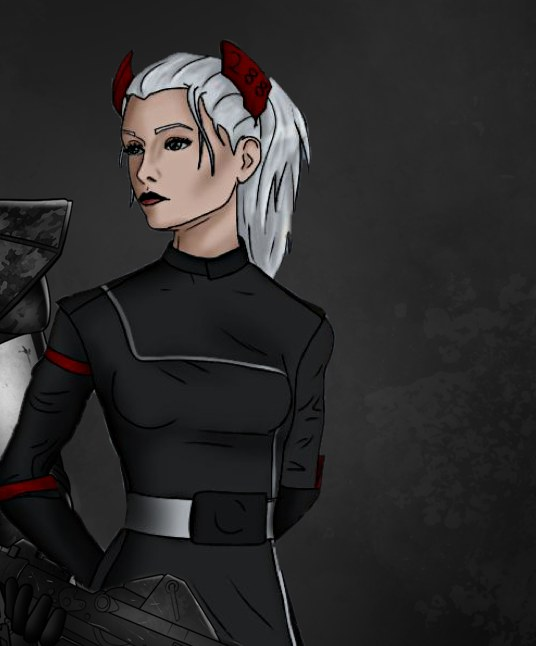
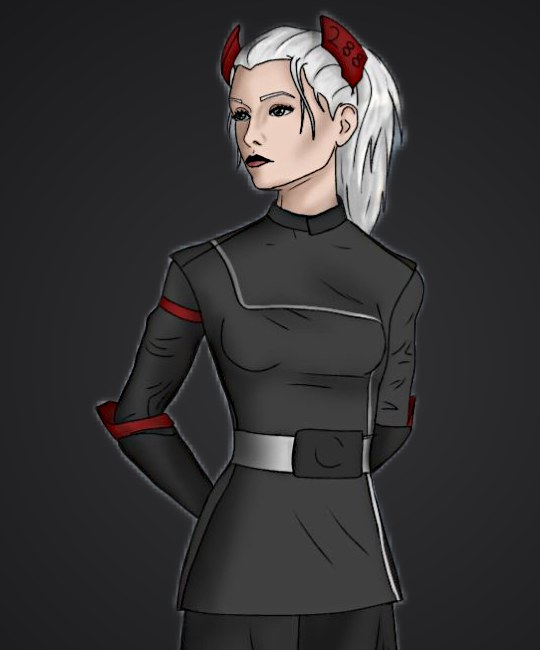
Hall of Honor: new Lynx portrait
Claude-Session: https://claude.ai/code/session_01QnpzuT2cmqUgbyHeDRRMuf

diff --git a/index.html b/index.html
@@ -935,7 +935,7 @@ html.intro-on,html.intro-on body{overflow:hidden}
       </div>
       <div class="command honor" id="c-honor">
         <article class="officer reveal">
-          <div class="plate"><img class="portrait" src="images/honor-lynx.jpg" alt="Lynx" style="width:100%;height:100%;object-fit:cover;object-position:50% 22%;opacity:1"></div>
+          <div class="plate"><img class="portrait" src="images/honor-lynx.jpg?v=2" alt="Lynx" style="width:100%;height:100%;object-fit:cover;object-position:50% 22%;opacity:1"></div>
           <div class="info"><span class="label">Fleet Admiral</span><h3>Lynx</h3><span class="honor-medal">Member since 2017 · Fleet Admiral of the 228th</span><details><summary>Their story</summary><p>Fleet Admiral Lynx is one of the most storied members in the 228th&#x27;s history. She came to the Corps from the 91st Recon Corps, another clone unit from the text RP days. In 2017 the 228th and the 91st were close allies, and when the 91st was invaded during an op (told in the lore below), she and Flanker spent a good while working side by side and grew very close.
 
 The 91st and Lynx ended up on rocky terms. It took some convincing, but Flanker was the push she needed: she accepted a promotion, swapped units, and came over to the 228th to take active command as its Fleet Admiral.
